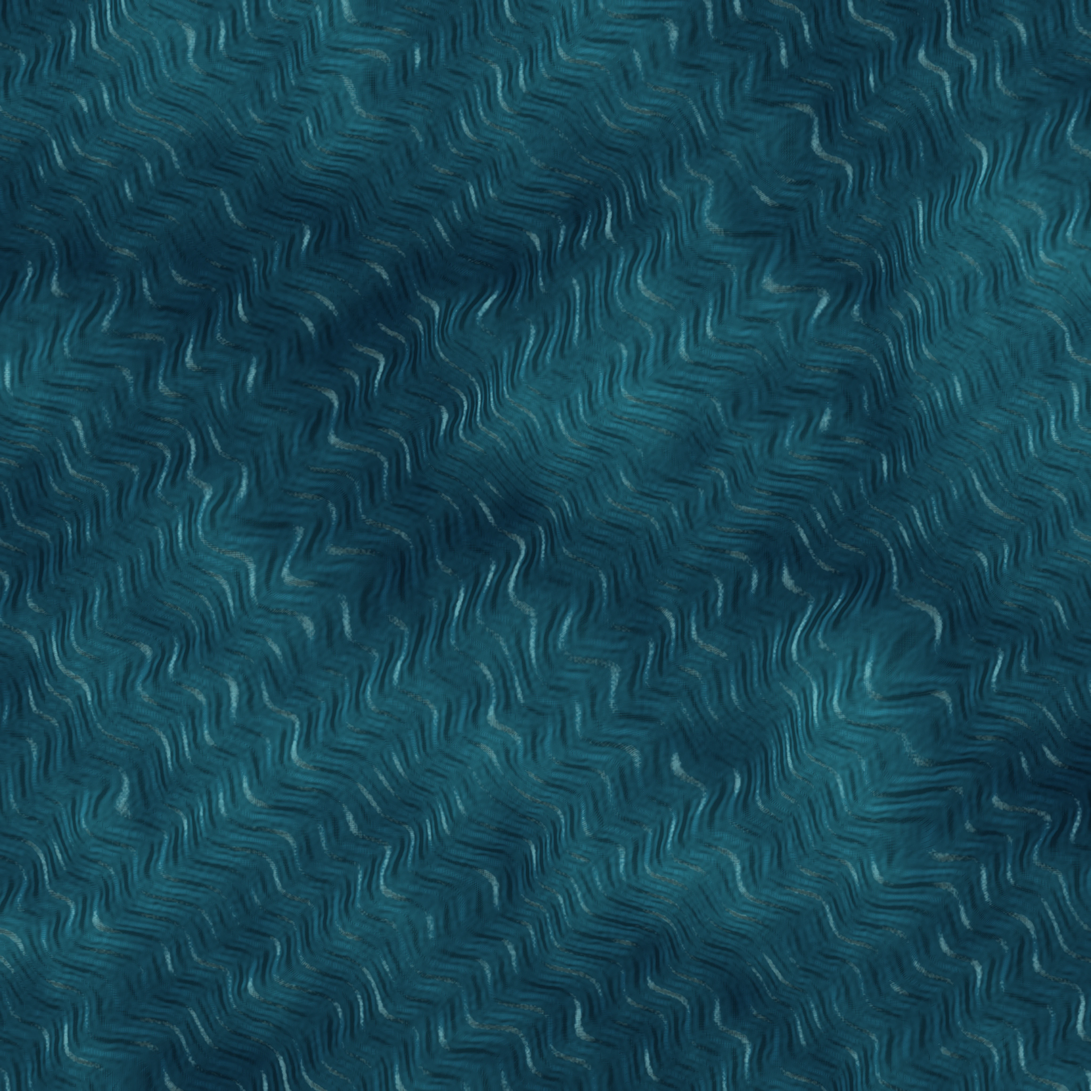
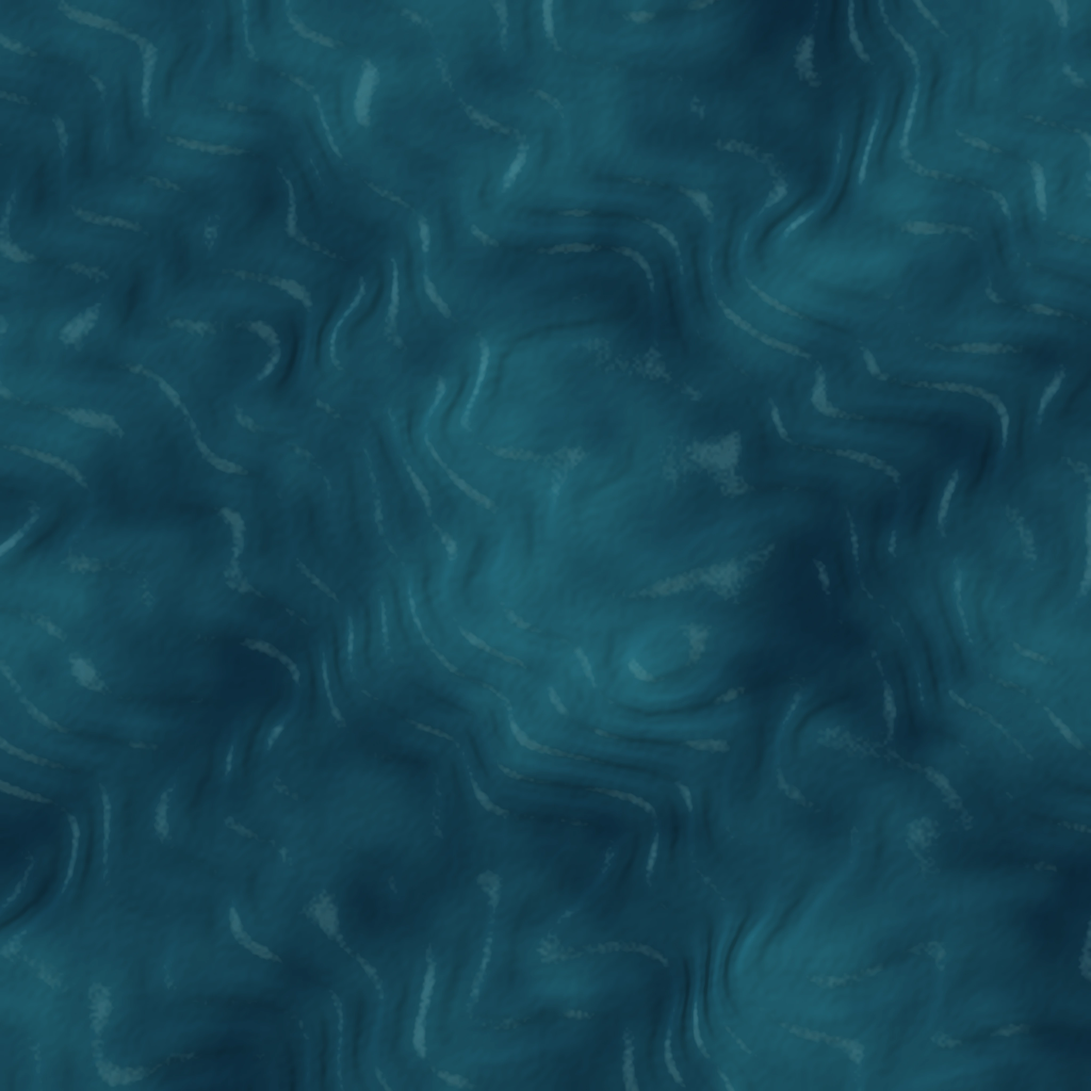
Render continuous terrain and rounded snakes, correct flag orientation and rebalance pellets

diff --git a/game.js b/game.js
@@ -28,7 +28,7 @@ const Config = {
   massPerSqrtScore: 2.5, // Added mass = this value × sqrt(current score)
   cashoutBetMultiplier: 5, // Cash out requires a current collected balance of entry bet × 5
 
-  foodValue: 2.5, // Payout for one ordinary pellet
+  foodValue: 0.5, // Payout for one ordinary pellet
   initialBalance: 15000,
   mapSize: 4800,
   foodCount: 1350,
@@ -379,7 +379,7 @@ window.Config = Config;
       y,
       gold,
       value,
-      radius: gold ? between(3.5, 6.5) : between(1.8, 3.4),
+      radius: gold ? between(3.5, 6.5) : between(2.8, 4.3),
       color: gold ? appearance.dropColor : appearance.foodColor,
       phase: between(0, TAU),
       alive: true,
@@ -1354,21 +1354,9 @@ window.Config = Config;
     }
     const img = landscape.img;
     if (!img.naturalWidth) return;
-    const tile = world / 2;
-    // Mirror adjoining edges so the terrain stays continuous across the arena.
-    for (let col = Math.floor(left / tile); col * tile < right; col++)
-      for (let row = Math.floor(top / tile); row * tile < bottom; row++) {
-        const flipX = Boolean(col % 2),
-          flipY = Boolean(row % 2);
-        ctx.save();
-        ctx.translate(
-          (col + Number(flipX)) * tile,
-          (row + Number(flipY)) * tile,
-        );
-        ctx.scale(flipX ? -1 : 1, flipY ? -1 : 1);
-        ctx.drawImage(img, 0, 0, tile, tile);
-        ctx.restore();
-      }
+    ctx.imageSmoothingEnabled = true;
+    ctx.imageSmoothingQuality = "high";
+    ctx.drawImage(img, 0, 0, world, world);
     const wash = {
       ocean: "#0095b529",
       violet: "#924eb52c",
@@ -1593,10 +1581,15 @@ window.Config = Config;
           1 + (effectsEnabled() ? 0.12 * Math.sin(time + f.phase) : 0),
         r = f.radius * pulse;
       ctx.fillStyle = f.color;
-      ctx.globalAlpha = 0.85;
+      ctx.globalAlpha = 0.95;
       ctx.beginPath();
       ctx.arc(f.x, f.y, r, 0, TAU);
       ctx.fill();
+      if (!f.gold) {
+        ctx.strokeStyle = "#132f394d";
+        ctx.lineWidth = 0.8;
+        ctx.stroke();
+      }
       if (f.gold) {
         ctx.fillStyle = "#fff4c6";
         ctx.beginPath();
@@ -1685,53 +1678,35 @@ window.Config = Config;
   function drawFlagBody(trail, angle, r, texture, color, blur) {
     const head = trail[0];
     const length = trail[trail.length - 1].distance;
-    // Plan view: blunt snout, flared jaw, pinched neck and long pointed tail.
     const sections = [];
-    for (const [forward, halfWidth] of [
-      [1.48, 0],
-      [1.43, 0.32],
-      [1.15, 0.58],
-      [0.55, 0.92],
-      [0.18, 1.12],
-    ]) {
-      sections.push({
-        x: head.x + forward * r * Math.cos(angle),
-        y: head.y + forward * r * Math.sin(angle),
-        distance: -forward * r,
-        radius: halfWidth * r,
-      });
+    function roundCap(point, heading, radius, front) {
+      for (let step = 0; step < 8; step++) {
+        const t = ((front ? 8 - step : step + 1) * Math.PI) / 16;
+        const offset = radius * Math.sin(t);
+        sections.push({
+          x: point.x + offset * Math.cos(heading),
+          y: point.y + offset * Math.sin(heading),
+          distance: point.distance + (front ? -offset : offset),
+          radius: radius * Math.cos(t),
+        });
+      }
     }
+    roundCap(head, angle, r, true);
     for (const p of trail) {
-      const d = p.distance / r;
-      const profile =
-        d < 0.45
-          ? 1.19 + 0.27 * d
-          : d < 1.6
-            ? 1.31 - (0.66 * (d - 0.45)) / 1.15
-            : 0.65 + 0.31 * Math.min(1, (d - 1.6) / 2.4);
-      const taper = Math.min(
-        1,
-        (length - p.distance) / Math.min(length || 1, 8 * r),
-      );
-      sections.push({ ...p, radius: r * profile * (0.065 + 0.935 * taper) });
+      const taper = clamp((length - p.distance) / (4 * r), 0, 1);
+      // Slight scallops suggest overlapping round segments along the body.
+      const lobe =
+        1 - 0.045 * Math.sin((p.distance * Math.PI) / (1.35 * r)) ** 2;
+      sections.push({ ...p, radius: r * (0.74 + 0.26 * taper) * lobe });
     }
     const tail = sections[sections.length - 1];
     const prev = sections[sections.length - 2];
-    const tailAngle = Math.atan2(tail.y - prev.y, tail.x - prev.x);
-    sections.push({
-      x: tail.x + tail.radius * Math.cos(tailAngle),
-      y: tail.y + tail.radius * Math.sin(tailAngle),
-      distance: length + tail.radius,
-      radius: 0,
-    });
-    const end = sections[sections.length - 1].distance;
-    const shoulder = Math.min(end, 5 * r);
-    // Keep the emblem near its original aspect ratio as long snakes grow.
-    function textureX(distance) {
-      if (distance < 0) return 0;
-      if (distance <= shoulder) return (0.88 * distance) / shoulder;
-      return 0.88 + (0.12 * (distance - shoulder)) / (end - shoulder);
-    }
+    roundCap(
+      tail,
+      Math.atan2(tail.y - prev.y, tail.x - prev.x),
+      tail.radius,
+      false,
+    );
     const outline = new Path2D();
     for (let i = 0; i < sections.length; i++) {
       const p = sections[i];
@@ -1758,6 +1733,12 @@ window.Config = Config;
     ctx.shadowBlur = 0;
     ctx.clip(outline);
     if (texture) {
+      // Keep the flag upright in head-local space. A single undistorted
+      // motif sits behind the eyes; its border colours continue along the body.
+      const flagLength = (2 * r * texture.width) / texture.height;
+      const sourceX = (distance) =>
+        clamp(1 - (distance - 0.6 * r) / flagLength, 0, 1) *
+        (texture.width - 1);
       for (let i = sections.length - 1; i > 0; i--) {
         const a = sections[i - 1],
           b = sections[i];
@@ -1771,13 +1752,10 @@ window.Config = Config;
         const overlap =
           0.55 +
           radius * Math.max(bend, Math.abs(dx * b.nx + dy * b.ny) / span);
-        const u = Math.min(
-          texture.width - 1,
-          texture.width * textureX(a.distance),
-        );
-        const v = texture.width * textureX(b.distance);
+        const u = sourceX(b.distance),
+          v = sourceX(a.distance);
         ctx.save();
-        ctx.transform(dx / span, dy / span, dy / span, -dx / span, a.x, a.y);
+        ctx.transform(-dx / span, -dy / span, dy / span, -dx / span, b.x, b.y);
         ctx.drawImage(
           texture,
           u,
@@ -1785,9 +1763,9 @@ window.Config = Config;
           Math.max(1, v - u),
           texture.height,
           -overlap,
-          -radius - 1,
+          -radius,
           span + 2 * overlap,
-          2 * radius + 2,
+          2 * radius,
         );
         ctx.restore();
       }
@@ -1868,27 +1846,6 @@ window.Config = Config;
       ctx.beginPath();
       ctx.ellipse(-4, 0, r * 2.15, r * 1.65, 0, -1.15, 1.15);
       ctx.stroke();
-      ctx.fillStyle = "#b5fff1";
-      for (const side of [-1, 1]) {
-        ctx.beginPath();
-        ctx.moveTo(-r * 0.2, side * r * 0.7);
-        ctx.lineTo(-r * 1.85, side * r * 1.65);
-        ctx.lineTo(-r, side * r * 0.15);
-        ctx.fill();
-      }
-    }
-    const flick = Math.sin(s.age * 4 + s.id);
-    if (flick > 0.52) {
-      const tip = r * (1.5 + (0.95 * (flick - 0.52)) / 0.48);
-      ctx.strokeStyle = "#a43a48";
-      ctx.lineWidth = Math.max(1, r * 0.1);
-      ctx.beginPath();
-      ctx.moveTo(1.43 * r, 0);
-      ctx.lineTo(tip, 0);
-      ctx.lineTo(tip + 0.27 * r, -0.17 * r);
-      ctx.moveTo(tip, 0);
-      ctx.lineTo(tip + 0.27 * r, 0.17 * r);
-      ctx.stroke();
     }
     const gaze = pointer
       ? Math.atan2(
@@ -1914,12 +1871,6 @@ window.Config = Config;
       );
       ctx.fill();
     }
-    ctx.strokeStyle = "#e4fff8a0";
-    ctx.lineWidth = 1;
-    ctx.beginPath();
-    ctx.moveTo(-r * 0.8, 0);
-    ctx.lineTo(r * 0.1, 0);
-    ctx.stroke();
     if (evolved && effectsEnabled()) {
       const age = s.age - s.evolvedAt;
       if (age < 1.3) {

diff --git a/README.md b/README.md
@@ -2,6 +2,6 @@
 
 Open index.html or serve the folder with python3 -m http.server 8000. All artwork is bundled. The lobby contains Russian settings for seven 4096×4096 terrain maps, personal flag, food colors, lighting, effects, bot population, evolution, minimap and labels. Game Studio also provides a game library and portable presets.
 
-The entry is fixed at 5 and the exit opens at 25 collected units. Ordinary food pays 2.5 per unit. On death, the entire remaining score is divided among gold pieces to the cent. At round start, 94% of bots draw balances of 5–350 and 2% start above 1,000. Replacement bots usually enter with 0–25, with a 0.5% chance of 1,001–1,400. Boost costs 3 units per second. The language selects the displayed denomination (Portuguese BRL, English USD, Russian RUB). This is a display preference without exchange-rate conversion.
+The entry is fixed at 5 and the exit opens at 25 collected units. Ordinary food pays 0.5 per unit. On death, the entire remaining score is divided among gold pieces to the cent. At round start, 94% of bots draw balances of 5–350 and 2% start above 1,000. Replacement bots usually enter with 0–25, with a 0.5% chance of 1,001–1,400. Boost costs 3 units per second. The language selects the displayed denomination (Portuguese BRL, English USD, Russian RUB). This is a display preference without exchange-rate conversion.
 
 Steer with the joystick, pointer or arrow keys. Hold Space or the primary mouse button to boost. Escape pauses the game. W moves a funded snake to the exit for recording. Country flags come from flag-icons, with its license in assets/flags.
